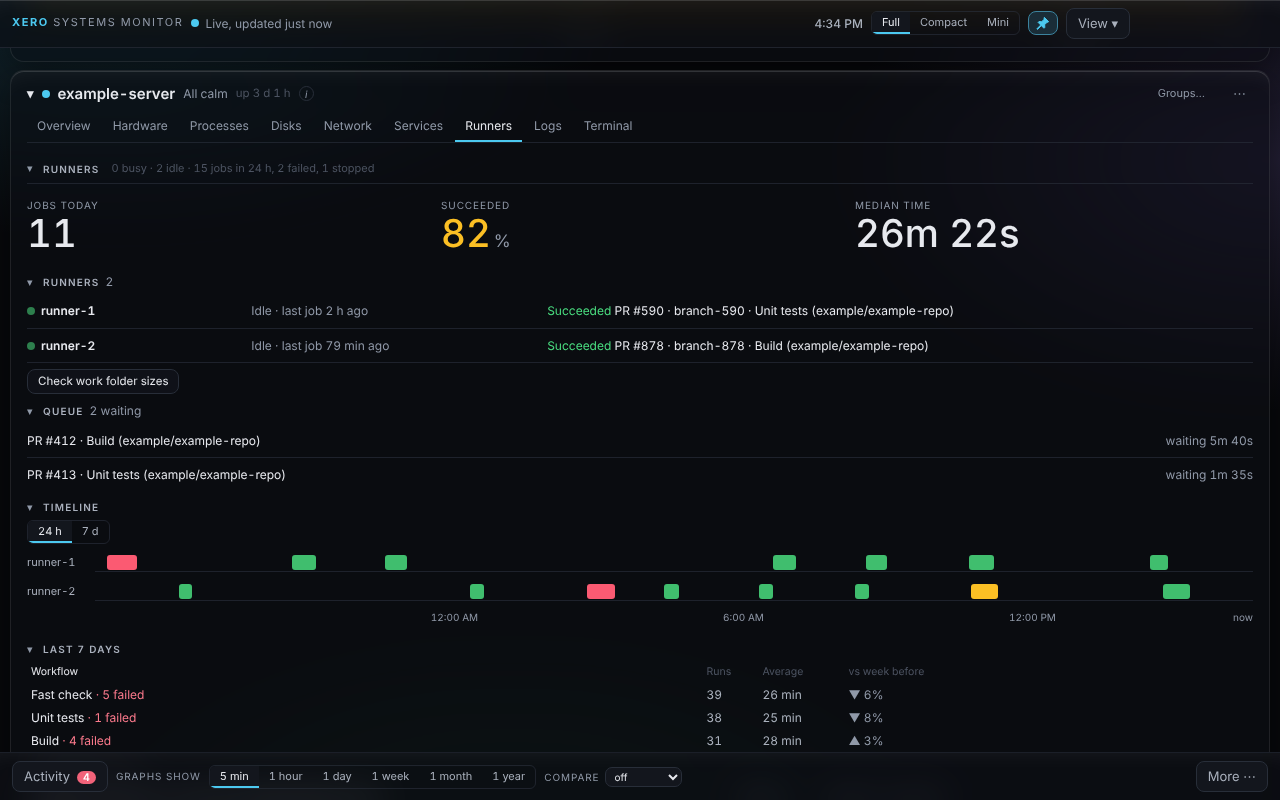
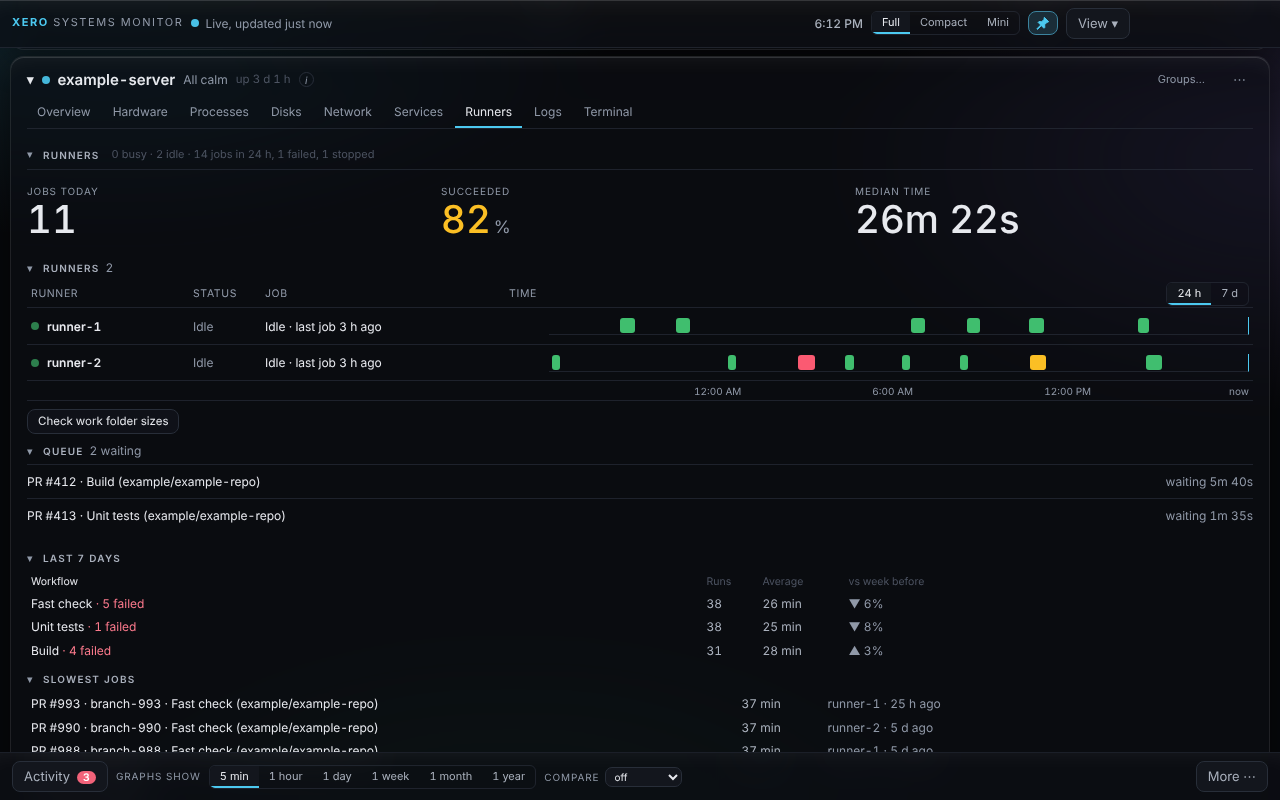
Runners: one table with a timeline lane per runner (#55)
Replaces the separate runner list and swimlane timeline (Runners tab and Overview) with one table.

Claude-Session: https://claude.ai/code/session_0135roDSyKmVbufXTNSNLj3P

diff --git a/app/src/styles/runners.css b/app/src/styles/runners.css
@@ -1,22 +1,14 @@
 /* Runners tab: the runner list and the queue (headings and hairlines, no boxes), and the mini window columns. */
 .rlist{display:flex;flex-direction:column}
-.rrow{display:grid;grid-template-columns:minmax(90px,1.2fr) 90px minmax(0,3fr) 80px 70px;gap:var(--sp-10);align-items:center;padding:var(--sp-5) 0;border-top:1px solid var(--line);font-size:var(--fs-12)}
-.rrow.q{grid-template-columns:minmax(0,1fr) auto}
-.rrow span{overflow:hidden;text-overflow:ellipsis;white-space:nowrap}
-.rname{display:flex;align-items:center;gap:var(--sp-6);color:var(--fg)}
-.rname i{width:var(--sz-8);height:var(--sz-8);border-radius:50%;background:var(--dim2);flex:none}
-.rname.busy i{background:var(--c-run)}
-.rname.gone i{background:var(--bad)}
-.rst,.rt,.rsz{color:var(--dim)}
-.rt,.rsz{text-align:right}
-.rfoot{display:flex;align-items:center;gap:var(--sp-10);padding-top:var(--sp-6);border-top:1px solid var(--line)}
-@media (max-width:620px){.rrow{grid-template-columns:minmax(80px,1fr) minmax(0,2fr) auto}.rrow .rst,.rrow .rsz{display:none}}
+.rrow.q{display:grid;grid-template-columns:minmax(0,1fr) auto;gap:var(--sp-12);align-items:center;padding:var(--sp-8) 0;border-top:1px solid var(--hair);font-size:var(--fs-12)}
+.rrow.q span{overflow:hidden;text-overflow:ellipsis;white-space:nowrap}
+.rrow.q .rt{color:var(--dim)}
 /* Mini window: the machine rows flow into 1, 2 or 3 columns by the window's width */
 .mini .compact{column-count:1;column-gap:var(--sp-10)}
 .mini .compact .crow{break-inside:avoid}
 @media (min-width:480px){.mini .compact{column-count:2}}
 @media (min-width:720px){.mini .compact{column-count:3}}
-/* Runners, flat: three big numbers, one row per runner, a swimlane timeline with a now line, a slim week heatmap and a zebra history table. */
+/* Runners, flat: three big numbers, the queue, a slim week heatmap and a zebra history table. */
 .rstats{display:grid;grid-template-columns:repeat(3,minmax(0,1fr));gap:var(--sp-16);padding:var(--sp-6) 0 var(--sp-10)}
 .rstats .lbl{display:block}
 .rstats b{display:block;font-size:calc(var(--size-number) * 2.4);font-family:var(--font-number);font-weight:var(--weight-number,500);line-height:1.1;color:var(--fg)}
@@ -24,26 +16,7 @@
 .rstats b.bad{color:var(--bad-text)}
 .rstats b.warn{color:var(--busy)}
 .rstats b.good{color:var(--ok)}
-.tlrange{margin-bottom:var(--sp-6)}
-.rrow{padding:var(--sp-8) 0;border-top:1px solid var(--hair)}
-.rrow:first-child{border-top:0}
-.rname{font-weight:600}
-.rname.busy i{box-shadow:0 0 6px var(--c-run)}
-.rname.gone i{background:var(--bad)}
-.rrow .rst{font-size:var(--fs-12)}
-.rlist:not(.jobs) .rrow:not(.q){grid-template-columns:minmax(90px,1.2fr) minmax(150px,1.6fr) minmax(0,3fr) 80px 70px}
-@media (max-width:620px){.rlist:not(.jobs) .rrow:not(.q){grid-template-columns:minmax(80px,1fr) minmax(0,2fr) auto}}
-.rname.idle i{background:var(--ok);opacity:.55}
-.rname.busy i{background:var(--busy);box-shadow:0 0 6px var(--busy)}
 .rres.succeeded{color:var(--ok)}.rres.failed{color:var(--bad-text)}.rres.stopped{color:var(--busy)}.rres.unknown{color:var(--dim)}
-.rrow .rjob{color:var(--fg)}
-.rfoot{border-top:1px solid var(--hair)}
-.jobs .rrow{grid-template-columns:minmax(90px,1.2fr) 90px minmax(0,3fr) 80px}
-@media (max-width:620px){.jobs .rrow{grid-template-columns:minmax(80px,1fr) minmax(0,2fr) auto}}
-.tl{gap:0}
-.lane{padding:var(--sp-4) 0}
-.track{height:var(--sz-20);background:none;border:0;border-bottom:1px solid var(--hair);border-right:1px solid var(--acc);border-radius:0}
-.detail .track{height:var(--sz-18)}
 .jb{background:color-mix(in srgb,var(--ok) 85%,transparent);color:var(--on-acc);border-radius:var(--r-3)}
 .jb.run{background:var(--c-run)}
 .jb.bad{background:var(--bad);color:var(--on-acc)}
@@ -59,3 +32,32 @@
 .hitem.head{background:none;color:var(--dim);font-size:var(--fs-10-5);letter-spacing:.06em;text-transform:uppercase;border-bottom:1px solid var(--hair)}
 .hitem.link:hover{background:color-mix(in srgb,var(--fg) 8%,transparent)}
 .hfilters input,.hfilters select{background:none;border-color:var(--hair)}
+
+/* Runners table: one row per runner with its own timeline lane; every row is the same height and shares one column grid. */
+.rtable{--rt-row:var(--sz-36);--rt-cols:minmax(var(--sp-70),var(--sp-150)) var(--sp-60) minmax(var(--sp-60),var(--sp-200)) var(--sp-60) minmax(var(--sp-100),1fr);display:flex;flex-direction:column}
+.rtable.hassz{--rt-cols:minmax(var(--sp-70),var(--sp-150)) var(--sp-60) minmax(var(--sp-60),var(--sp-200)) var(--sp-60) var(--sp-60) minmax(var(--sp-100),1fr)}
+.rtable.compact{--rt-row:var(--sz-28);--rt-cols:minmax(var(--sp-60),var(--sp-100)) minmax(var(--sp-40),var(--sp-150)) minmax(var(--sp-60),1fr)}
+.rtr{display:grid;grid-template-columns:var(--rt-cols);column-gap:var(--sp-12);align-items:center;height:var(--rt-row);padding:0 var(--sp-4);border-top:1px solid var(--hair);font-size:var(--fs-12);min-width:0}
+.rtr>span{min-width:0;overflow:hidden;text-overflow:ellipsis;white-space:nowrap}
+.rth{height:var(--sz-28);border-top:0;border-bottom:1px solid var(--hair);color:var(--dim);font-size:var(--fs-10-5);letter-spacing:.06em;text-transform:uppercase}
+.rth+.rtr{border-top:0}
+.rtx{height:var(--sz-20);border-top:1px solid var(--hair)}
+.rtx .rtl{grid-column:-2}
+.rtable .rtl{overflow:visible}
+.rtable .rtl .seg{text-transform:none;letter-spacing:0;float:right}
+.rname{display:flex;align-items:center;gap:var(--sp-8);color:var(--fg);font-weight:600}
+.rname span{overflow:hidden;text-overflow:ellipsis}
+.rname i{width:var(--sz-8);height:var(--sz-8);border-radius:50%;background:var(--dim2);flex:none}
+.rname.idle i{background:var(--ok);opacity:.55}
+.rname.busy i{background:var(--busy);box-shadow:0 0 6px var(--busy)}
+.rname.gone i{background:var(--bad)}
+.rst,.rt{color:var(--dim)}
+.rst.busy{color:var(--busy)}
+.rst.gone{color:var(--bad-text)}
+.rt{text-align:right;font-variant-numeric:tabular-nums}
+.rjob{color:var(--fg)}
+.rtlane{position:relative;height:var(--sz-18);border-right:1px solid var(--acc);border-bottom:1px solid var(--hair)}
+.rtable.compact .rtlane{height:var(--sz-14)}
+.rfoot{display:flex;align-items:center;gap:var(--sp-12);padding-top:var(--sp-8);border-top:1px solid var(--hair)}
+@media (max-width:620px){.rtable:not(.compact){--rt-cols:minmax(var(--sp-60),var(--sp-100)) minmax(var(--sp-40),1fr) minmax(var(--sp-80),1.2fr)}.rtable:not(.compact) .rst,.rtable:not(.compact) .rt{display:none}}
+.rtable .xax{margin:0}

diff --git a/app/src/RunnersTable.jsx b/app/src/RunnersTable.jsx
@@ -1,0 +1,50 @@
+import { useMemo, useState } from "react";
+import * as api from "./api.js";
+import Sub from "./Sub.jsx";
+import Axis from "./Axis.jsx";
+import { dur, hm } from "./format.js";
+import { runnerRows, STATUS_TEXT, bytesText } from "./runnerList.js";
+import { buildLanes, BAD, TL_RANGES, DEFAULT_TL_RANGE } from "./lanes.js";
+import { labelUrl, refUrl } from "./github.js";
+import { linkProps, linkClass } from "./jobLink.js";
+const res = v => !v ? "" : [v[0] != null && `CPU ${v[0].toFixed(0)}%`, v[1] != null && `RAM ${(v[1] / 1024).toFixed(1)} GB`, (v[2] != null || v[3] != null) && "GPU " + [v[3] != null && v[3].toFixed(0) + "%", v[2] != null && v[2].toFixed(0) + " MB"].filter(Boolean).join(" ")].filter(Boolean).join(" · ");
+const WORD = { busy: "Busy", idle: "Idle", gone: "Offline" };
+// One lane: the runner's own job bars on the shared time axis. A bar opens its job on GitHub when it has an address.
+function Lane({ name, bars, t0, t1 }) {
+  const pos = t => Math.max(0, Math.min(100, ((t - t0) / (t1 - t0)) * 100));
+  return (
+    <div className="rtlane">{bars.filter(b => b.e >= t0).map((b, i) => { const url = b.url || labelUrl(b.label); return (
+      <div key={i} {...linkProps(url)} className={"jb" + linkClass(url) + (b.run ? " run" : "") + (b.res && BAD[b.res] ? " " + BAD[b.res] : "")} data-tip={[b.label || "Job", ...(url ? ["Click to open on GitHub"] : []), `${b.res ? b.res + " · " : ""}${hm(b.s)} to ${b.run ? "now" : hm(b.e)} · ${dur(b.e - b.s)}${b.run ? " so far" : ""}`, name].join("\n")} style={{ left: pos(b.s) + "%", width: Math.max(pos(b.e) - pos(b.s), 0.4) + "%" }} />); })}</div>);
+}
+// The runners as one table: a row per runner (status dot, name, status, current job, time in the job) and that runner's own timeline lane
+// filling the rest of the row, with one shared time axis at the bottom. `compact` (Overview) drops the status and time columns.
+export default function RunnersTable({ machine, d, started, gone, now, finished, compact }) {
+  const [span, setSpan] = useState(DEFAULT_TL_RANGE), secs = TL_RANGES[span].secs, t0 = now - secs;
+  const [sizes, setSizes] = useState({}), [state, setState] = useState("");   // state: "", "loading" or an error text
+  const ask = () => { setState("loading"); api.getWorkSize(machine).then(list => { setSizes(Object.fromEntries(list.map(x => [x.runner, x.bytes]))); setState(""); }, e => setState(String(e?.message || e))); };
+  const rows = runnerRows(d, started, gone, now, sizes, finished, machine), jobs = d.jobs || {}, jr = d.jobres || {};
+  const lanes = useMemo(() => Object.fromEntries(buildLanes(finished, machine, d.runners, d.jobs, started, t0, now)), [finished, machine, d.runners, d.jobs, started, t0, now]);
+  const hasSize = !compact && Object.keys(sizes).length > 0;
+  const body = (
+    <>
+      <div className={"rtable" + (compact ? " compact" : "") + (hasSize ? " hassz" : "")} role="table" aria-label="Runners">
+        <div className="rtr rth" role="row">
+          <span role="columnheader">Runner</span>{!compact && <span className="rst" role="columnheader">Status</span>}<span role="columnheader">Job</span>{!compact && <span className="rt" role="columnheader">Time</span>}{hasSize && <span className="rt" role="columnheader">Folder</span>}
+          <span className="rtl" role="columnheader"><span className="seg tlrange" role="group" aria-label="Timeline range">{Object.entries(TL_RANGES).map(([k, v]) => <button key={k} className={span === k ? "on" : ""} onClick={() => setSpan(k)}>{v.label}</button>)}</span></span>
+        </div>
+        {rows.map(r => { const j = jobs[r.name], url = j && refUrl(j[3], j[2]);
+          return (
+            <div className="rtr" role="row" key={r.name} data-tip={[r.name, j?.[3], res(jr[r.name])].filter(Boolean).join(" · ")}>
+              <span className={"rname " + r.status} role="cell"><i /><span>{r.name}</span></span>
+              {!compact && <span className={"rst " + r.status} role="cell">{WORD[r.status]}</span>}
+              <span className={"rjob" + linkClass(url)} role="cell" {...linkProps(url)}>{r.job || (r.status === "gone" ? STATUS_TEXT.gone : r.note)}</span>
+              {!compact && <span className="rt" role="cell">{r.inJob}</span>}
+              {hasSize && <span className="rt" role="cell">{r.size !== undefined ? bytesText(r.size) : ""}</span>}
+              <span className="rtl" role="cell"><Lane name={r.name} bars={lanes[r.name] || []} t0={t0} t1={now} /></span>
+            </div>); })}
+        <div className="rtr rtx"><span className="rtl"><Axis t0={t0} t1={now} range={secs} className="tlx" /></span></div>
+      </div>
+      {!compact && <div className="rfoot"><button className="small" disabled={state === "loading"} onClick={ask} data-tip="Adds up each runner's work folder. Can take a few seconds.">{state === "loading" ? "Measuring…" : "Check work folder sizes"}</button>{state && state !== "loading" && <span className="quiet">{state}</span>}</div>}
+    </>);
+  return compact ? body : <Sub id={machine + ".rtable"} title="Runners" hint={`${rows.length}`}>{body}</Sub>;   // the Overview already has the section heading
+}

diff --git a/app/src/styles/sections.css b/app/src/styles/sections.css
@@ -1,24 +1,17 @@
 /* Section bodies: runners (timeline, jobs, trends, heatmap, history), containers and services, busiest programs, connections. */
-.jobs{display:flex;flex-direction:column;gap:var(--sp-6)}
 .job{display:grid;grid-template-columns:1fr auto;gap:0 var(--sp-10);background:var(--bg);border:1px solid var(--line);border-radius:var(--r-8);padding:var(--sp-4) var(--sp-8)}
 .job b{font-weight:600}
 .job .pr{color:var(--acc)}
 .job .t{color:var(--mid)}
 .job .s{grid-column:1/-1;color:var(--dim);font-size:var(--fs-11-5);overflow:hidden;text-overflow:ellipsis;white-space:nowrap;display:block}
-.tl{display:flex;flex-direction:column;gap:var(--sp-5);position:relative}
-.lane{display:grid;grid-template-columns:62px 1fr;gap:var(--sp-8);align-items:center}
-.lane>.tick{color:var(--mid);font-size:var(--fs-12)}
-.track{position:relative;height:var(--sz-20);background:var(--bg);border-radius:var(--r-5);border:1px solid var(--line)}
 .jb{position:absolute;top:var(--sp-2);bottom:var(--sp-2);border-radius:var(--r-4);background:color-mix(in srgb,var(--acc) 26%,var(--s2));font-size:var(--fs-10-5);line-height:14px;color:var(--fg);overflow:hidden;white-space:nowrap;min-width:var(--sz-3);container-type:inline-size;cursor:default;transition:filter .12s}
 .jb .jl{display:none;padding:0 var(--sp-5);overflow:hidden;text-overflow:ellipsis}
 @container (min-width:64px){.jb .jl{display:block}}
 .jb.run{background:var(--acc);color:var(--on-acc);font-weight:600}
-.tl .xax{margin-left:var(--sp-70)}
 @media (prefers-reduced-motion:no-preference){.jb.run{animation:breathe 4s ease-in-out infinite}}
-.tlx{margin-left:var(--sp-70)}
 .smooth{overflow:hidden;transition:height .28s ease}
-.job,.chip,.lane{animation:rowin .28s ease both}
-@media (prefers-reduced-motion:reduce){.smooth{transition:none}.job,.chip,.lane{animation:none}}
+.job,.chip{animation:rowin .28s ease both}
+@media (prefers-reduced-motion:reduce){.smooth{transition:none}.job,.chip{animation:none}}
 .jb:hover{filter:brightness(1.5);z-index:1}
 .jb.bad{background:color-mix(in srgb,var(--bad) 55%,var(--s2));color:var(--on-strong)}
 .jb.stop{background:color-mix(in srgb,var(--busy) 40%,var(--s2))}

diff --git a/app/src/sections/Runners.jsx b/app/src/sections/Runners.jsx
@@ -1,20 +1,19 @@
 import Smooth from "../Smooth.jsx";
-import Jobs from "../Jobs.jsx";
-import RunnerList from "../RunnerList.jsx";
-import TimelineSection from "../TimelineSection.jsx";
+import RunnersTable from "../RunnersTable.jsx";
+import Queue from "../Queue.jsx";
 import Trends from "../Trends.jsx";
 import Busy from "../Busy.jsx";
 import RunnerStats from "../RunnerStats.jsx";
 import JobHistory from "../JobHistory.jsx";
 import { FULL } from "./tabs.js";
-// The Runners section. Compact view (Overview): chips, running jobs and the timeline. Full view (Runners tab): also 7-day trends, the busy heatmap and the job history.
+// The Runners section: one table with a row and a timeline lane per runner. Compact view (Overview): just the compact table. Full view (Runners tab): the 3 big numbers, the queue, 7-day trends, the busy heatmap and the job history.
 export default function Runners({ m, d, rows, gone, t1, view }) {
   return (
     <Smooth className="panel wide">
       {view === FULL && <RunnerStats rows={rows} machine={m.name} now={t1} />}
-      {view === FULL ? <RunnerList machine={m.name} d={d} started={m.started} gone={gone} now={t1} finished={rows} /> : <Jobs d={d} now={t1} started={m.started} gone={gone} />}
-      <TimelineSection machine={m.name} rows={rows} runners={d.runners} jobs={d.jobs} started={m.started} t1={t1} />
+      <RunnersTable machine={m.name} d={d} started={m.started} gone={gone} now={t1} finished={rows} compact={view !== FULL} />
       {view === FULL && <>
+        <Queue machine={m.name} d={d} now={t1} />
         <Trends rows={rows} machine={m.name} now={t1} />
         <Busy rows={rows} machine={m.name} count={Object.keys(d.runners).length} running={Object.values(m.started || {})} now={t1} />
         <JobHistory rows={rows} machine={m.name} />

diff --git a/app/src/styles/card.css b/app/src/styles/card.css
@@ -37,7 +37,6 @@
 .detail .ph .sum{font-size:var(--size-small);font-family:var(--font-small);font-weight:var(--weight-small,400);white-space:nowrap}
 @container (max-width:420px){.detail .ph .sum{display:none}}
 .chead .meta{margin-left:auto;color:var(--dim);font-size:var(--fs-11-5)}
-.card.full .jobs{margin-bottom:var(--sp-4)}
 .detail .xax{font-size:var(--fs-10);margin-left:0;margin-top:var(--sp-2)}
 .detail .chart .gl span{font-size:var(--fs-9-5)}
 .grp h5::before{content:"";width:var(--sz-8);height:var(--sz-8);border-radius:var(--r-2);background:var(--g,var(--acc));order:0}
@@ -47,12 +46,7 @@
 .detail .ph .now small{color:var(--dim)}
 .detail .chart .thr span{color:var(--crit);font-size:var(--fs-9-5)}
 .detail .chart .thr{border-top-color:color-mix(in srgb,var(--crit) 60%,transparent)}
-.detail .tl .xax,.detail .tlx{margin-left:var(--sp-70)}
-.detail .track{height:var(--sz-15)}
 .detail .jb{top:var(--sp-1);bottom:var(--sp-1);line-height:11px;font-size:var(--fs-10)}
-.detail .tl{gap:var(--sp-3)}
-.detail .lane{grid-template-columns:62px 1fr;gap:var(--sp-6)}
-.detail .lane>.tick{font-size:var(--fs-11)}
 @container (min-width:860px){.tabpanel{display:grid;grid-template-columns:repeat(2,minmax(0,1fr))}.detail .grp.runners,.detail .grp.full{grid-column:1/-1}}
 .grp h5:hover{color:var(--fg)}
 .grp h5 .chev{font-weight:400;color:var(--dim);width:var(--sz-10);display:inline-block;font-size:var(--fs-11)}

diff --git a/app/src/styles/flat.css b/app/src/styles/flat.css
@@ -12,11 +12,10 @@ body{background:radial-gradient(60vw 50vh at 8% -5%,var(--blob-a),transparent 70
 .modal{-webkit-backdrop-filter:none;backdrop-filter:none}
 /* flat inside the card: no boxes in boxes */
 .card .panel,.detail .panel{background:none;border:0;border-radius:0;padding:0;box-shadow:none}
-.card .job,.card .track,.card .offbox .last,.card .logtext,.card .termbody,.card .mrow,.card .crow,.card .ptile{background:none;box-shadow:none}
+.card .job,.card .offbox .last,.card .logtext,.card .termbody,.card .mrow,.card .crow,.card .ptile{background:none;box-shadow:none}
 .card .svcnote,.card .sysnote{background:none;border:0;border-left:2px solid color-mix(in srgb,var(--busy) 70%,transparent);border-radius:0;padding:var(--sp-4) var(--sp-10)}
 .card .chip,.card .fchip{background:none}
 .job{border:0;border-bottom:1px solid var(--hair);border-radius:0;padding:var(--sp-6) 0}
-.track{border:0;border-bottom:1px solid var(--hair);border-radius:0}
 .ptile{border:0;border-radius:0}
 .logtext,.termbody{border-color:var(--hair)}
 /* groups: a plain heading and a hairline */

diff --git a/app/src/styles/tokens.css b/app/src/styles/tokens.css
@@ -65,6 +65,10 @@
   --sp-30: calc(30px * var(--scale) * var(--dens));
   --sp-32: calc(32px * var(--scale) * var(--dens));
   --sp-40: calc(40px * var(--scale) * var(--dens));
+  --sp-60: calc(60px * var(--scale) * var(--dens));
+  --sp-80: calc(80px * var(--scale) * var(--dens));
+  --sp-100: calc(100px * var(--scale) * var(--dens));
+  --sp-200: calc(200px * var(--scale) * var(--dens));
   --sp-70: calc(70px * var(--scale) * var(--dens));
   --sp-150: calc(150px * var(--scale) * var(--dens));
   /* radii */
@@ -98,6 +102,7 @@
   --sz-26: calc(26px * var(--scale));
   --sz-28: calc(28px * var(--scale));
   --sz-32: calc(32px * var(--scale));
+  --sz-36: calc(36px * var(--scale));
   --sz-34: calc(34px * var(--scale));
   --sz-38: calc(38px * var(--scale));
   --sz-40: calc(40px * var(--scale));

diff --git a/app/src/Queue.jsx b/app/src/Queue.jsx
@@ -1,0 +1,11 @@
+import Sub from "./Sub.jsx";
+import { queueRows } from "./runnerList.js";
+// The jobs waiting for one of this machine's runners, longest wait first.
+export default function Queue({ machine, d, now }) {
+  const queue = queueRows(d, now);
+  return (
+    <Sub id={machine + ".rqueue"} title="Queue" hint={d.queued ? `${queue.length} waiting` : ""}>
+      {d.queued ? (queue.length ? <div className="rlist">{queue.map(q => <div className="rrow q" key={q.label + q.since}><span className="rjob">{q.label}</span><span className="rt">waiting {q.waited}</span></div>)}</div> : <div className="quiet">Nothing is waiting for these runners.</div>)
+        : <div className="quiet">This machine does not report waiting jobs.</div>}
+    </Sub>);
+}

diff --git a/README.md b/README.md
@@ -54,7 +54,7 @@ One window shows CPU, memory, disk, network, GPU and temperatures, plus GitHub A
 </tr>
 <tr>
 <td valign="top">Tabs on every machine card: Overview, Hardware, Processes, Disks, Network, Services and Runners (only the ones that machine has). Overview keeps the main graphs, a short runners block and any failing containers. Use the arrow keys to move between tabs; each machine remembers its tab. Hover the <b>i</b> in the header for the board, system and address.</td>
-<td valign="top">The Runners tab: one row per runner (status, current job, time in job, work folder size on demand), the queue, timeline, last 7 days, slowest jobs, the busy heatmap and job history. Click the pin on any section header to pin that section to Overview.</td>
+<td valign="top">The Runners tab: one table with a row per runner (status, current job, time in job) and that runner's own timeline lane (24 h or 7 d) on a shared time axis, work folder size on demand, the queue, last 7 days, slowest jobs, the busy heatmap and job history. Click the pin on any section header to pin that section to Overview.</td>
 </tr>
 <tr>
 <td width="50%"><img src="docs/screenshots/disks.png" alt="The Disks tab with drive speed graphs, drive health and the biggest folders"></td>

diff --git a/CHANGELOG.md b/CHANGELOG.md
@@ -4,6 +4,8 @@ All notable changes are listed here. Format: [Keep a Changelog](https://keepacha
 
 ## [Unreleased]
 
+- Changed: the runner list and the swimlane timeline are now one table: a row per runner (dot, name, Busy / Idle / Offline, current job or "Idle · last job 22 min ago", time in the job) with that runner's own timeline lane filling the rest of the row, one shared 12-hour time axis and the 24 h / 7 d chips in the header. Rows are the same height with aligned columns; on a narrow window the lanes shrink and the job text is cut with an ellipsis. The Overview shows a smaller version with no status or time columns.
+
 ## [0.3.0] - 2026-11-18
 
 - Added: window motion (Full only): at startup the cards and machine tiles cascade in one after another and their big numbers count up from zero; switching between Full, Compact and Mini fades and settles the content; "Fold all" (F) ripples from the top card to the bottom instead of folding everything at once.
